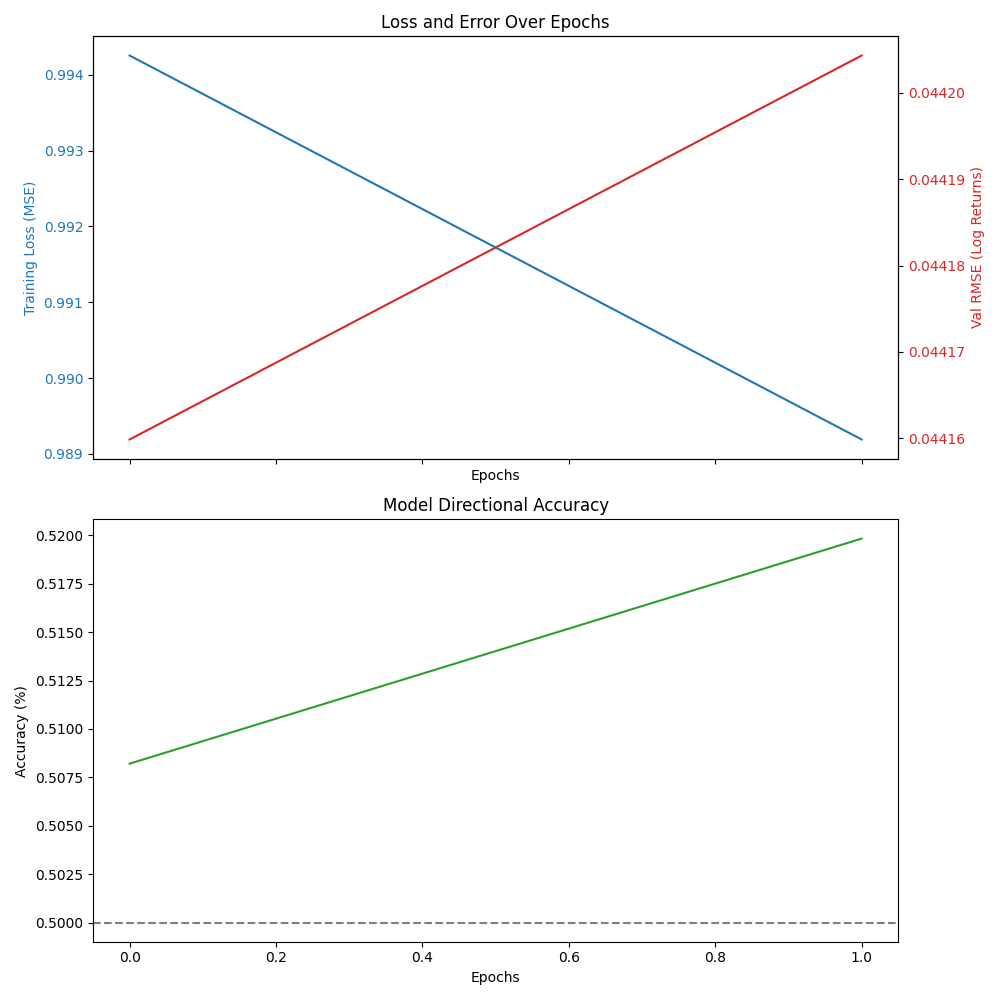
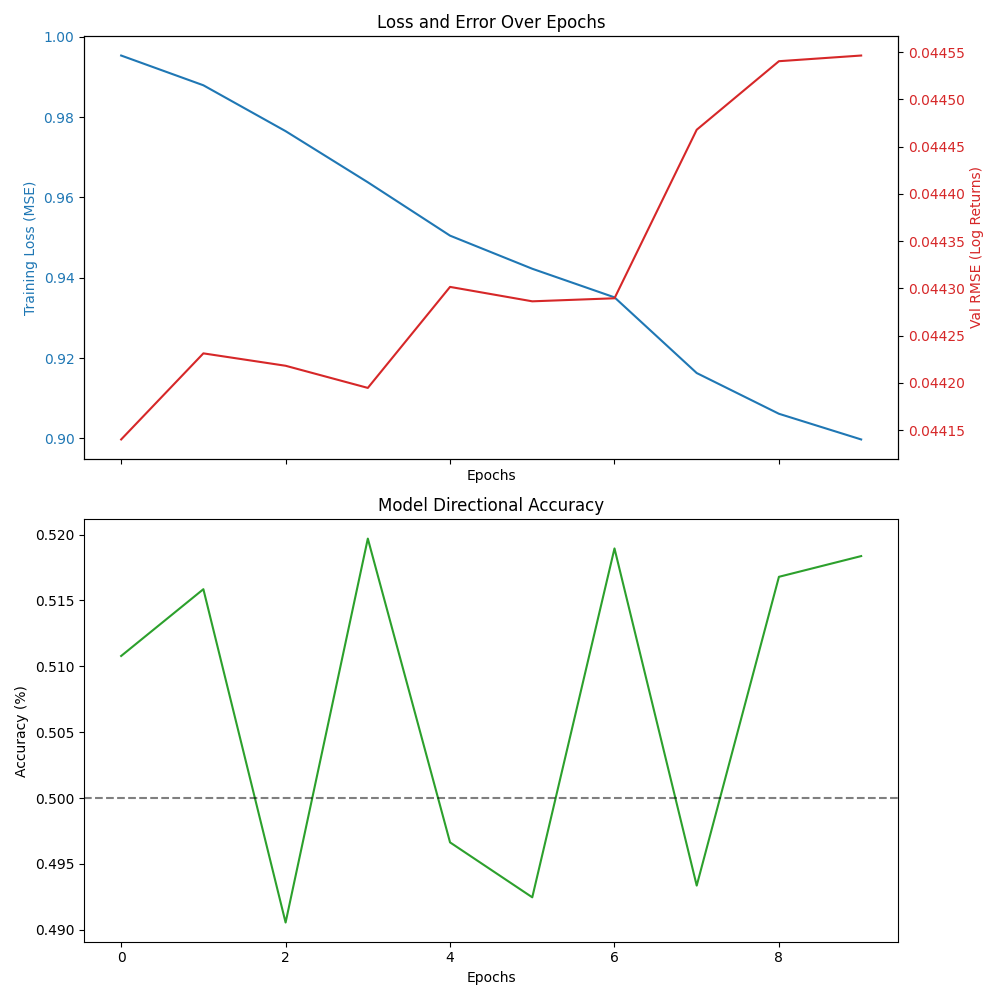
changed things to reduce overfitting

diff --git a/main.py b/main.py
@@ -27,7 +27,7 @@ SEQUENCE_LENGTH: int = 30
 TRAIN_FRACTION: float = 0.8
 VAL_FRACTION: float = 0.1
 BATCH_SIZE: int = 256
-LEARNING_RATE: float = 0.001
+LEARNING_RATE: float = 0.0005
 EPOCHS: int = 10
 MODEL_INFO_DIR: Path = Path("model_info")
 
@@ -261,10 +261,19 @@ def main() -> None:
     data_loaders, scaler = prepare_data(info.stocks_directory)
 
     model: StockPredictionModel = StockPredictionModel(
-        input_dim=1, hidden_dim=128, num_layers=2, output_dim=1, device=device
+        input_dim=1,
+        hidden_dim=128,
+        num_layers=2,
+        output_dim=1,
+        dropout=0.3,
+        device=device,
     ).to(device)
     criterion: nn.MSELoss = nn.MSELoss().to(device)
-    optimizer: optim.Adam = optim.Adam(model.parameters(), lr=LEARNING_RATE)
+    optimizer: optim.Adam = optim.Adam(
+        model.parameters(),
+        lr=LEARNING_RATE,
+        weight_decay=1e-5,  # Weight decay penalizes large weights
+    )
     scheduler: ReduceLROnPlateau = optim.lr_scheduler.ReduceLROnPlateau(
         optimizer,
         mode="min",
@@ -274,19 +283,25 @@ def main() -> None:
 
     all_losses: List[float] = []
     all_rmse: List[float] = []
-    all_dim_acccuracies: List[float] = []
+    all_dim_accuracies: List[float] = []
     for epoch in tqdm(range(EPOCHS), desc="Number of Epochs Left"):
+        print()
+
         losses: float = train_step(
             model, data_loaders.train, criterion, optimizer, epoch
         )
         all_losses.append(losses)
 
+        print()
+
         rsme, dim_accuray = val_step(model, data_loaders.val, scaler, scheduler, epoch)
         all_rmse.append(rsme)
-        all_dim_acccuracies.append(dim_accuray)
+        all_dim_accuracies.append(dim_accuray)
+
+        print()
 
         torch.save(model.state_dict(), model_save_dir / f"model_{epoch}.pt")
-    plot_model_performance(all_losses, all_rmse, all_dim_acccuracies)
+    plot_model_performance(all_losses, all_rmse, all_dim_accuracies)
     print("Model training complete!")
 
 

diff --git a/model.py b/model.py
@@ -11,7 +11,8 @@ class StockPredictionModel(nn.Module):
         hidden_dim: int,
         num_layers: int,
         output_dim: int,
-        device,
+        dropout: float,
+        device: torch.device,
     ) -> None:
         super().__init__()
 
@@ -24,9 +25,9 @@ class StockPredictionModel(nn.Module):
             hidden_dim,
             num_layers,
             batch_first=True,
-            dropout=0.2,
             device=device,
         )
+        self.dropout: nn.Dropout = nn.Dropout(dropout)
         self.fc: nn.Linear = nn.Linear(
             hidden_dim,
             output_dim,
@@ -42,6 +43,6 @@ class StockPredictionModel(nn.Module):
         )
 
         out, (_, _) = self.lstm(x, (h0.detach(), c0.detach()))
-        out = self.fc(out[:, -1, :])
+        out = self.fc(self.dropout(out[:, -1, :]))
 
         return out
